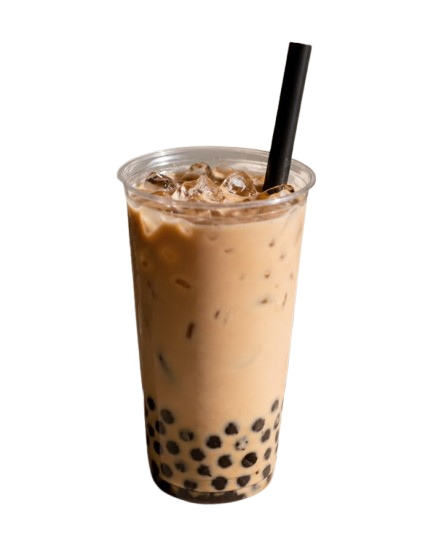
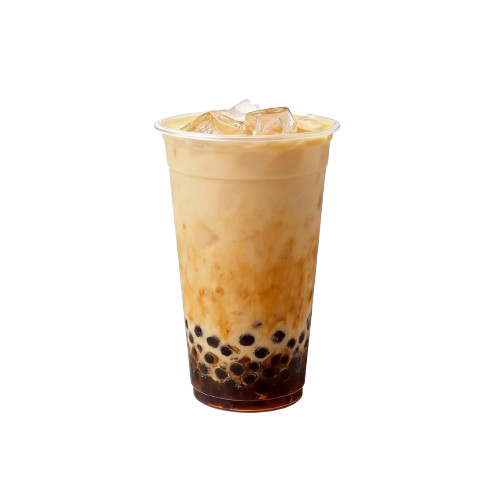
Sprint 2 testing and trialling done

Changed region(s): [[0.2617, 0.06, 0.7271, 0.93]]

diff --git a/templates/cart_display.html b/templates/cart_display.html
@@ -21,8 +21,8 @@
                     <li>
                         <strong>{{ details['item_name'] }} - ${{ '%.2f' % details['price'] }}</strong><br>
                         Toppings: {{ details['toppings'] }} - ${{ '%.2f' % details['topping_price'] }}<br>
-                        Sugar Level: {{ details['sugar_level'] }}<br>
-                        Ice Level: {{ details['ice_level'] }}<br>
+                        Sugar Level: {{ details['sugar_level'] }}%<br>
+                        Ice Level: {{ details['ice_level'] }}%<br>
                         Quantity: {{ details['quantity'] }}<br>
                         <strong>Drink total: ${{ '%.2f' % ((details['price'] + details['topping_price']) * details['quantity']) }}</strong>
                         <a href="{{ url_for('remove_from_cart', item=details['cart_key']) }}">[Remove]</a>

diff --git a/app.py b/app.py
@@ -69,7 +69,6 @@ def cart_display():
     cart = session.get('cart', [])
     total = calculate_total(cart)
     return render_template('cart_display.html', cart=cart, total=total)
-    
 
 @app.route('/select_addon', methods=['POST']) 
 def select_addon():
@@ -136,13 +135,10 @@ def remove_from_cart(item):
     for cart_item in cart:
         if cart_item['cart_key'] == item:
             if cart_item['quantity'] > 1:
-                # If there's more than one, lower the quantity by 1
-                cart_item['quantity'] -= 1
+                cart_item['quantity'] -= 1 # If there's more than one, lower the quantity by 1
                 new_cart.append(cart_item)
-            # If quantity is 1, we do NOT append it (it gets deleted)
-        else:
-            # Keep all other drinks untouched
-            new_cart.append(cart_item)
+        else:         
+            new_cart.append(cart_item) # Keep all other drinks untouched
             
     session['cart'] = new_cart
     session.modified = True
